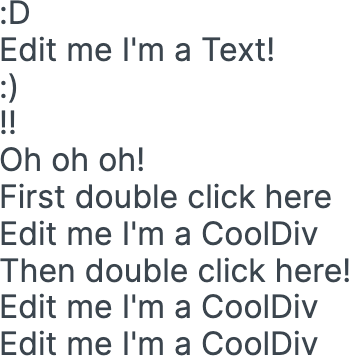
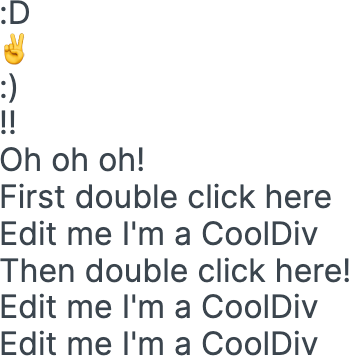
[ecu] Edit text on component App

Changed region(s): [[0.0, 0.0927, 0.3152, 0.1854], [0.5731, 0.0927, 0.8023, 0.1854], [0.3438, 0.0927, 0.5444, 0.1854]]

diff --git a/app/src/App.tsx b/app/src/App.tsx
@@ -41,7 +41,7 @@ function App(props: AppPropsType) {
     <>
       <Div data-ecu="bPO8puWJxw:0">
         <Text data-ecu="bPO8puWJxw:0_0">:D</Text>
-        <Text data-ecu="bPO8puWJxw:0_1">✌</Text>
+        <Text data-ecu="bPO8puWJxw:0_1">✌fff</Text>
       </Div>
       <Text data-ecu="bPO8puWJxw:1">:)</Text>
       <Text data-ecu="bPO8puWJxw:2">!!</Text>
